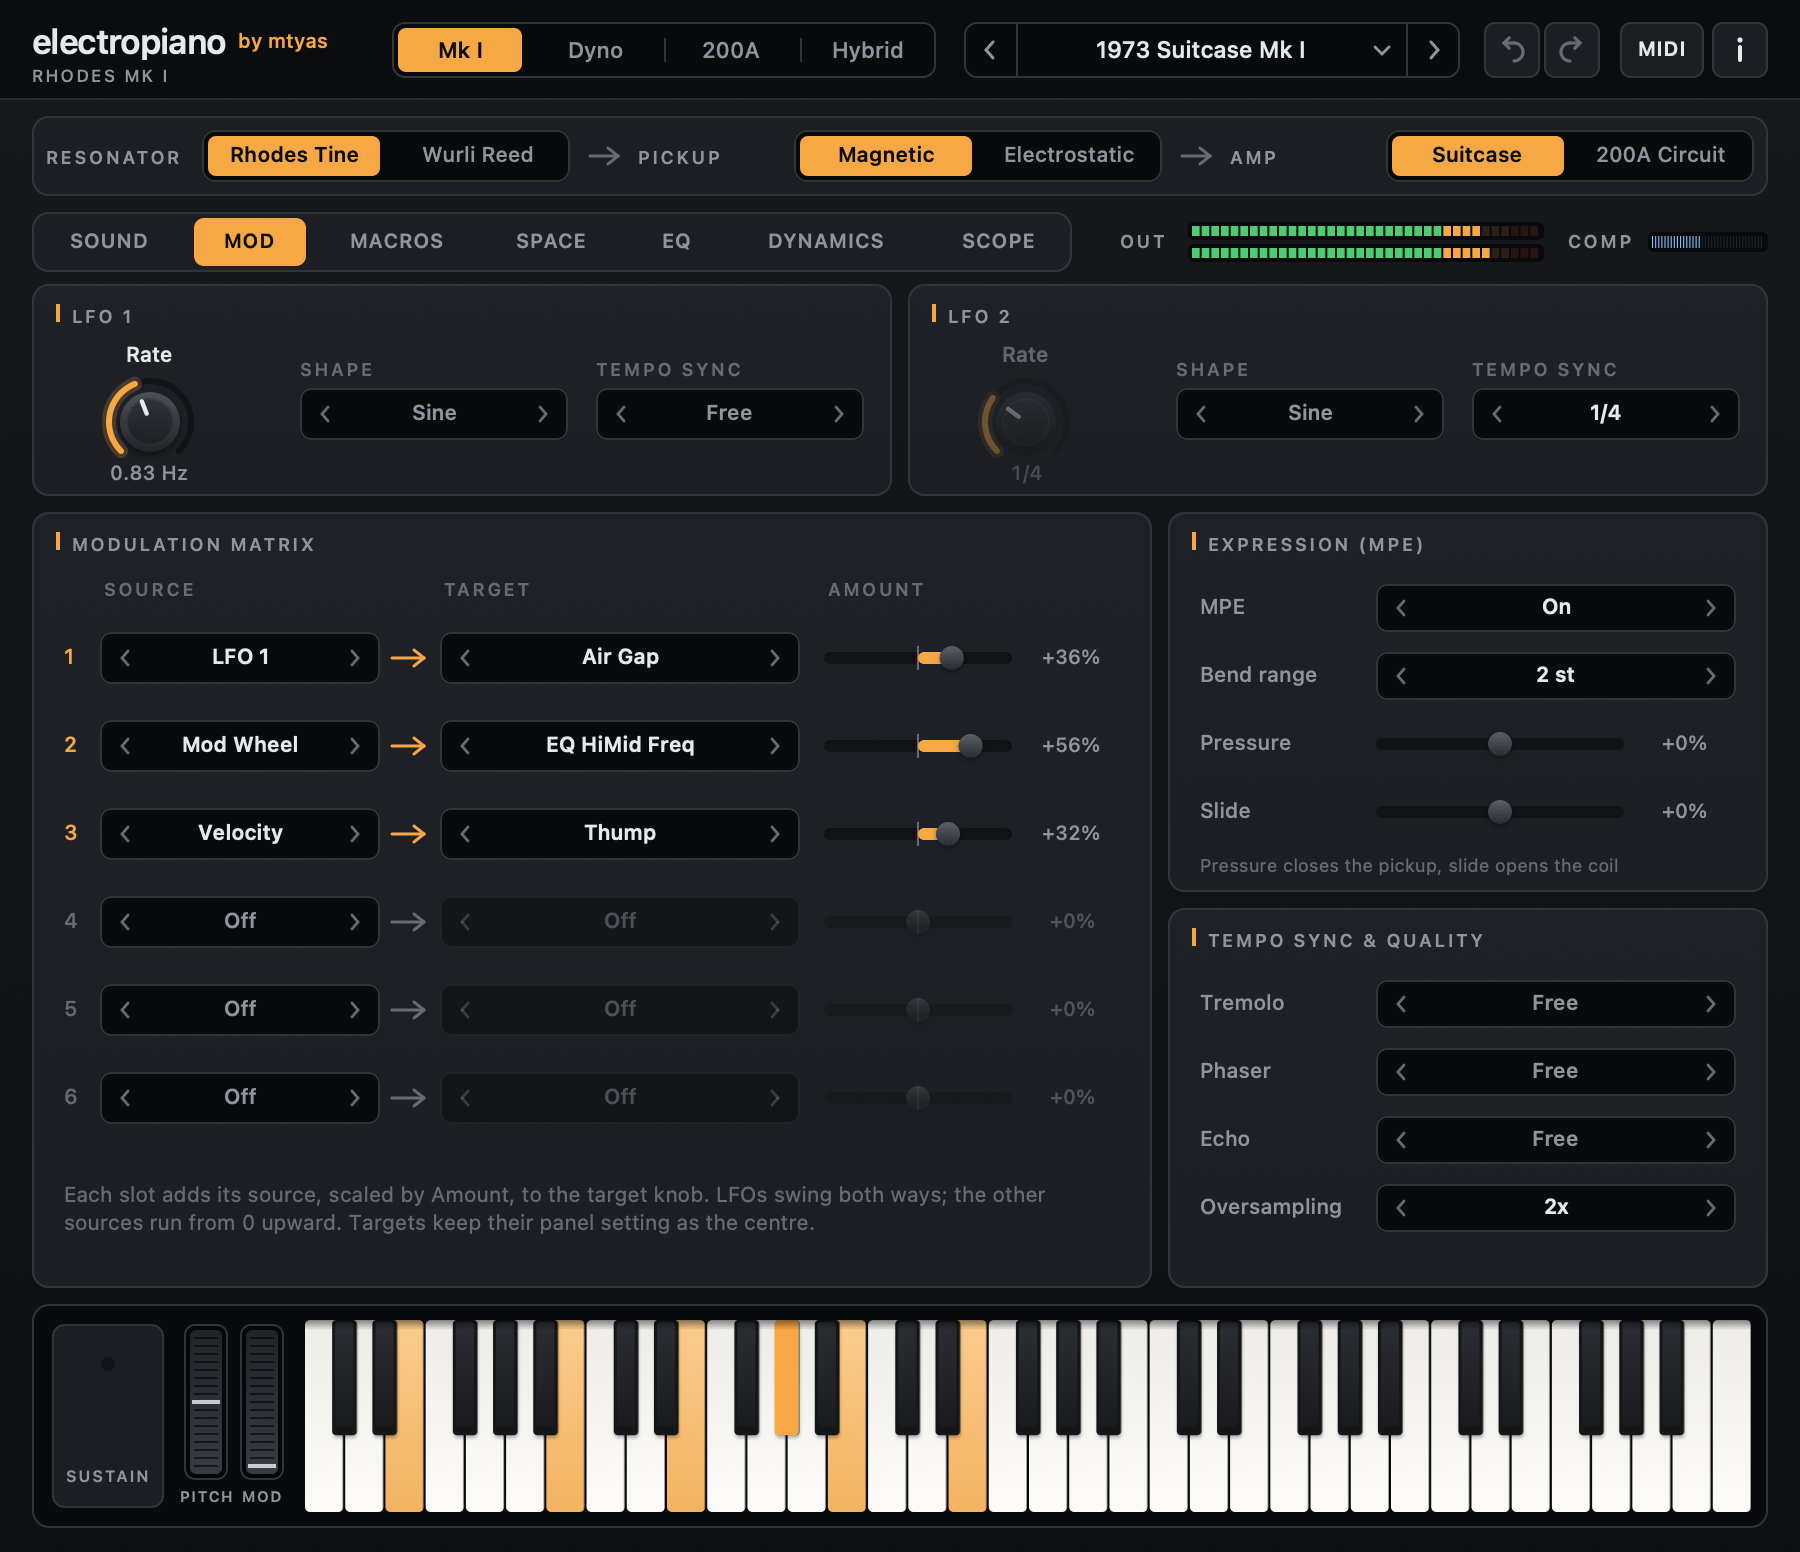
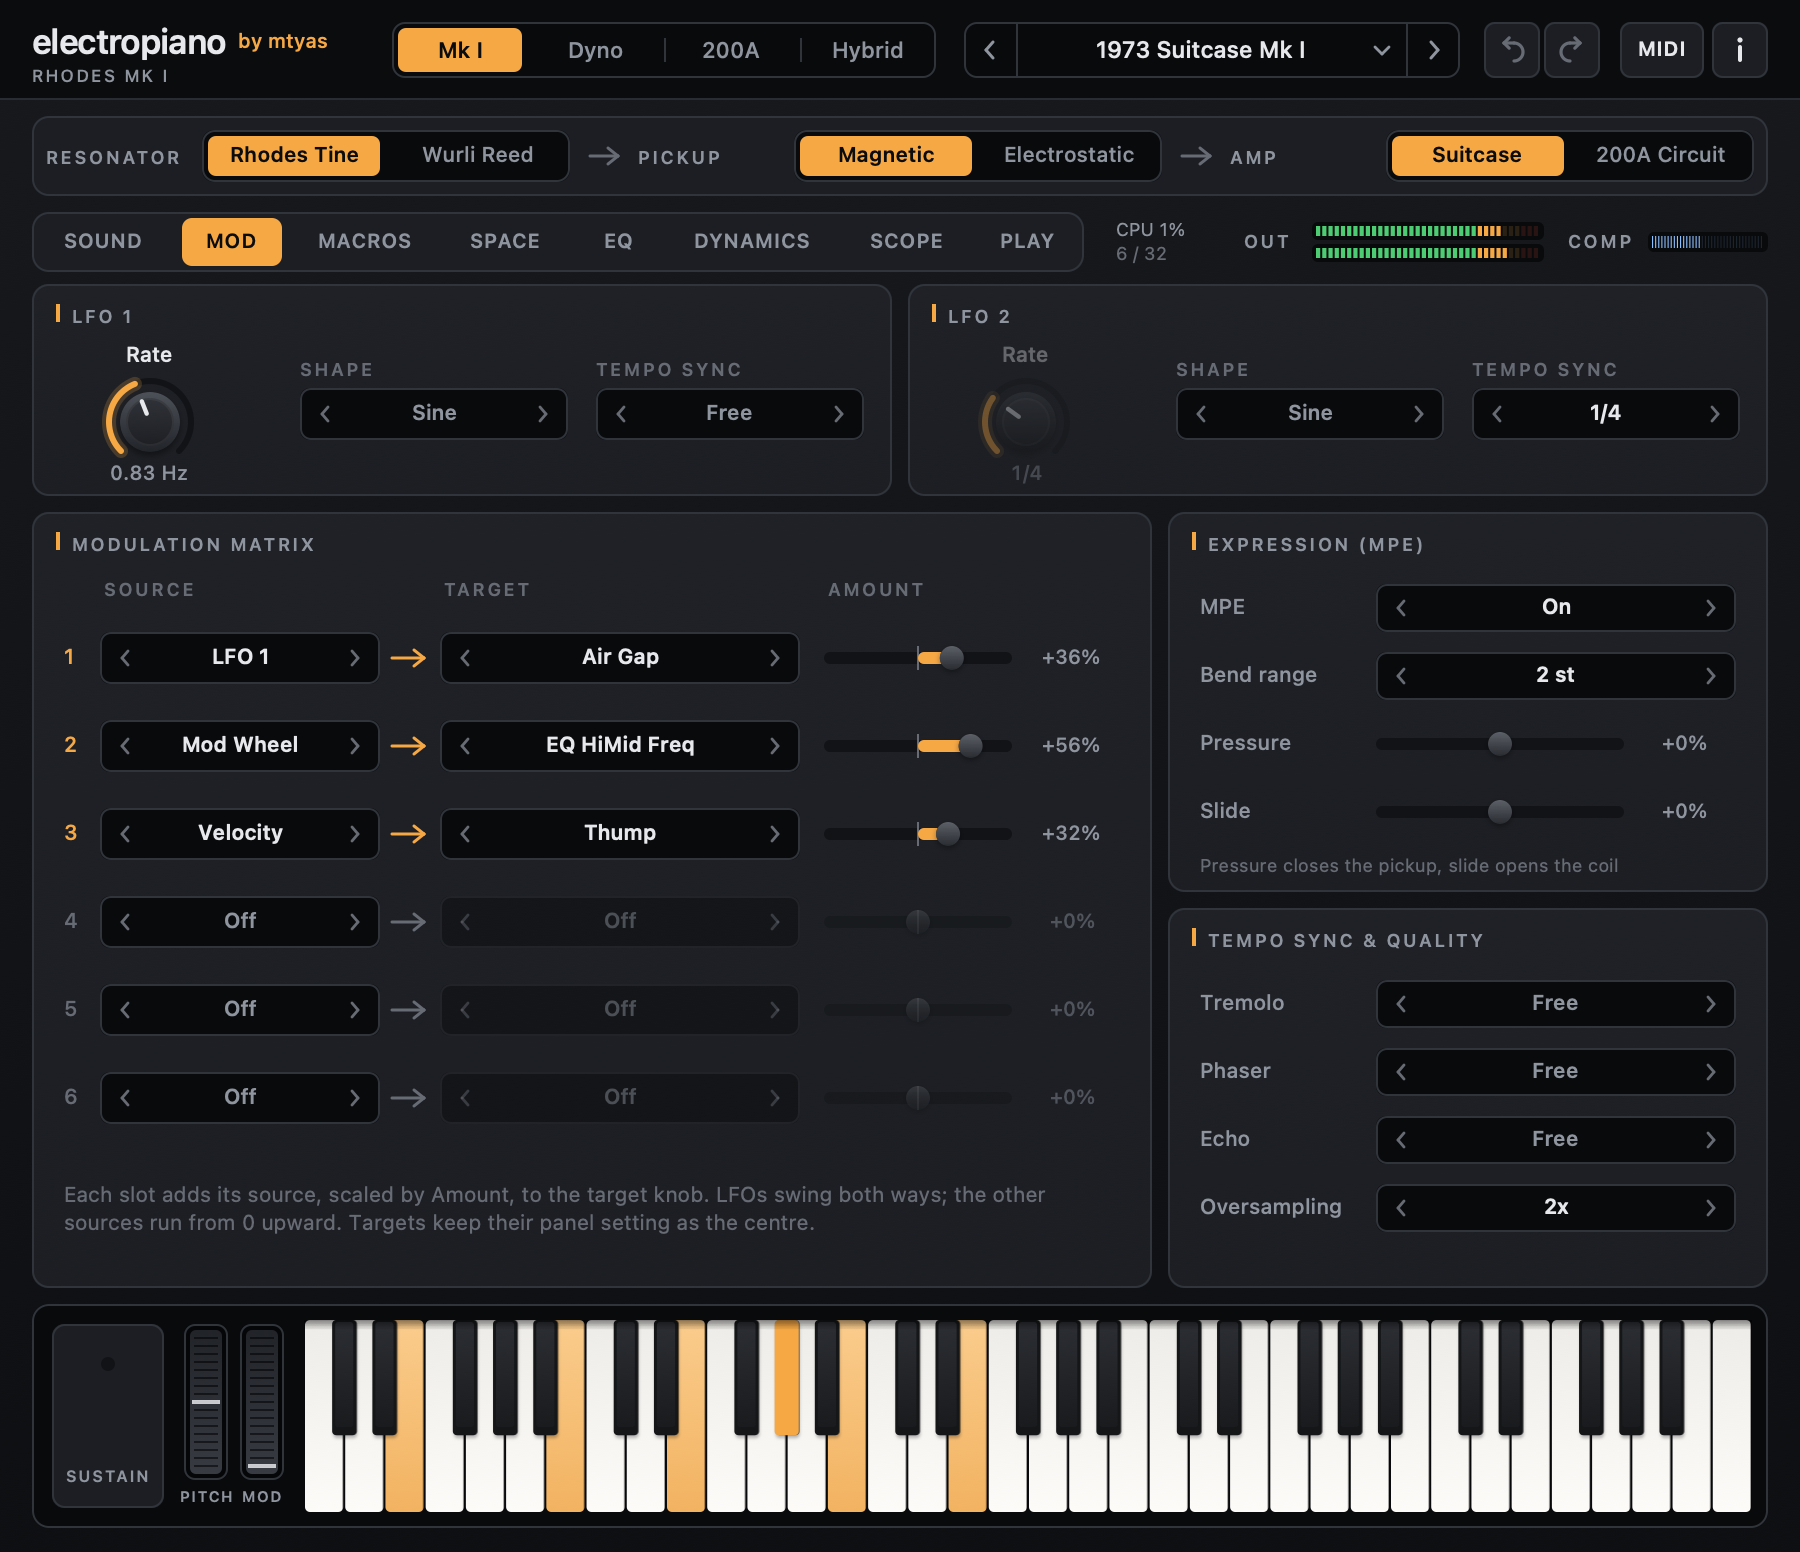
Version 0.81: one version source, release notes, refreshed screenshots
- src/dsp/PhsVersion.hpp is the single source of the version; the plugins, editor, LV2
  metadata, CMake (Info.plists, AU component version) and CI archive names read it
- Release notes for v0.81 with the downloads table (now including LV2)
- Screenshots regenerated for the eight-page editor, plus the new Play page in the manual and README

diff --git a/tools/render_manual_screenshots.mm b/tools/render_manual_screenshots.mm
@@ -119,7 +119,7 @@ int main(int argc, char** argv) {
             playChord(engine, {40, 47, 52, 56, 59, 64});
             auto settle = [&]() { for (int i = 0; i < 40; ++i) engine.processBlock(l, r, 512); };
             settle();
-            const float tabX[7] = {55, 125, 198, 276, 338, 413, 499};
+            const float tabX[8] = {52, 116, 182, 253, 309, 376, 453, 514};
             auto page = [&](int i, const char* name) {
                 ed->mouseDown(tabX[i], 655, false, 20.0 + i);
                 settle();
@@ -134,6 +134,14 @@ int main(int argc, char** argv) {
             page(4, "editor_eq.png");
             page(5, "editor_dynamics.png");
             page(6, "editor_scope.png");
+            // Play: just intonation loaded (the tuning arrow), a played-in instrument, a little spread
+            engine.setParamNormalized(kParamCondition, 0.35f);
+            engine.setParamNormalized(kParamStereoSpread, 0.4f);
+            page(7, "editor_play.png");
+            ed->mouseDown(416, 566, false, 45.0);
+            settle();
+            shoot(view, "editor_play.png");
+            engine.getTuning().resetToEqual();
             ed->mouseDown(tabX[0], 655, false, 50.0);
             shoot(view, "editor_sound.png");
             engine.setParamNormalized(kParamMpeMode, 0.0f);

diff --git a/src/formats/vst3_entry.mm b/src/formats/vst3_entry.mm
@@ -727,7 +727,7 @@ public:
         info->classFlags = 0;
         std::snprintf(info->subCategories, sizeof(info->subCategories), "Instrument|Synth|Piano");
         std::snprintf(info->vendor, sizeof(info->vendor), "mtyas");
-        std::snprintf(info->version, sizeof(info->version), "0.79");
+        std::snprintf(info->version, sizeof(info->version), "%s", PHS_VERSION_STRING);
         std::snprintf(info->sdkVersion, sizeof(info->sdkVersion), "VST 3.7.8");
         return kResultOk;
     }
@@ -742,7 +742,7 @@ public:
         info->classFlags = 0;
         std::snprintf(info->subCategories, sizeof(info->subCategories), "Instrument|Synth|Piano");
         copyAsciiToUtf16(info->vendor, "mtyas", 64);
-        copyAsciiToUtf16(info->version, "0.79", 64);
+        copyAsciiToUtf16(info->version, PHS_VERSION_STRING, 64);
         copyAsciiToUtf16(info->sdkVersion, "VST 3.7.8", 64);
         return kResultOk;
     }

diff --git a/src/gui/PhsEditor.cpp b/src/gui/PhsEditor.cpp
@@ -840,7 +840,7 @@ void Editor::drawSaveDialog(Canvas& c) {
 void Editor::drawAbout(Canvas& c) {
     aboutRect_ = modalFrame(c, 560.0f, 440.0f, "electropiano", aboutClose_);
     const Rect& m = aboutRect_;
-    c.drawText("by mtyas  \xC2\xB7  v0.79  \xC2\xB7  GPL-3.0", m.x + 28.0f + c.textWidth("electropiano", kModalTitle), m.maxY() - 31.0f, kAboutBy, kAccent);
+    c.drawText("by mtyas  \xC2\xB7  v" PHS_VERSION_STRING "  \xC2\xB7  GPL-3.0", m.x + 28.0f + c.textWidth("electropiano", kModalTitle), m.maxY() - 31.0f, kAboutBy, kAccent);
 
     const float x = m.x + 24.0f, w = m.w - 48.0f;
     float y = m.maxY() - 78.0f;

diff --git a/tools/gen_lv2_ttl.cpp b/tools/gen_lv2_ttl.cpp
@@ -39,7 +39,7 @@ int main(int argc, char** argv) {
       << "    doap:name \"electropiano\" ;\n"
       << "    doap:license <https://www.gnu.org/licenses/gpl-3.0> ;\n"
       << "    doap:maintainer [ foaf:name \"mtyas\" ; foaf:homepage <https://mtyas.com> ] ;\n"
-      << "    lv2:minorVersion 79 ; lv2:microVersion 0 ;\n"
+      << "    lv2:minorVersion " << PHS_VERSION_MINOR << " ; lv2:microVersion 0 ;\n"
       << "    lv2:requiredFeature urid:map ;\n"
       << "    lv2:optionalFeature lv2:hardRTCapable ;\n"
       << "    lv2:extensionData state:interface ;\n"

diff --git a/src/formats/au_entry.mm b/src/formats/au_entry.mm
@@ -60,7 +60,7 @@ namespace {
 static const UInt32 kAuType         = 'aumu';
 static const UInt32 kAuSubType      = 'PhsE';
 static const UInt32 kAuManufacturer = 'PyPH';
-static const UInt32 kAuVersion      = 0x00004F00; // v0.79
+static const UInt32 kAuVersion      = (PHS_VERSION_MAJOR << 16) | (PHS_VERSION_MINOR << 8);
 
 struct PropListener {
     AudioUnitPropertyID id;

diff --git a/src/dsp/PhsVersion.hpp b/src/dsp/PhsVersion.hpp
@@ -1,0 +1,7 @@
+#pragma once
+
+// The one place the version is set: the plugins, the editor, the LV2 metadata, CMake (bundle
+// Info.plists, the AU component version) and CI (archive names) all read it from here.
+#define PHS_VERSION_MAJOR 0
+#define PHS_VERSION_MINOR 81
+#define PHS_VERSION_STRING "0.81"

diff --git a/src/formats/clap_entry.mm b/src/formats/clap_entry.mm
@@ -34,7 +34,7 @@ static const clap_plugin_descriptor_t kClapDescriptor = {
     "https://mtyas.com",
     "https://mtyas.com",
     "https://ko-fi.com/mtyas",
-    "0.79",
+    PHS_VERSION_STRING,
     "electropiano by mtyas - Port-Hamiltonian Rhodes & Wurlitzer Physical Model",
     kClapFeatures
 };

diff --git a/src/dsp/PhsParameters.hpp b/src/dsp/PhsParameters.hpp
@@ -1,5 +1,6 @@
 #pragma once
 
+#include "PhsVersion.hpp"
 #include <cstdint>
 #include <cstring>
 #include <cstdio>

diff --git a/docs/RELEASE_NOTES.md b/docs/RELEASE_NOTES.md
@@ -1,4 +1,11 @@
-## electropiano — next release: playing, tuning, space and formats
+## electropiano v0.81 — playing, tuning, space and formats
+
+Physically modelled **Rhodes** and **Wurlitzer 200A** electric pianos, built from stages you can swap.
+This release is about playing it like the real thing, tuning it any way you like, and running it
+everywhere: CLAP, VST3 and now **LV2** on macOS, Windows and Linux; Audio Unit and a standalone app
+on macOS.
+
+![The new Play page](https://raw.githubusercontent.com/mtyas/electropiano/main/docs/images/editor_play.png)
 
 ### Playing
 - **Sample-accurate** notes and automation in **VST3** and **Audio Unit** (CLAP already was): timing
@@ -42,6 +49,18 @@
 
 **Projects saved with 0.79 load with the same settings and reverb**; the new controls start at
 values that leave the old sound unchanged.
+
+### Downloads
+
+| File | Contents |
+|---|---|
+| `electropiano-v0.81-macOS-Universal.zip` | CLAP, VST3, AU, LV2, standalone app (Apple Silicon + Intel) |
+| `electropiano-v0.81-Windows-x64.zip` | CLAP, VST3, LV2 |
+| `electropiano-v0.81-Linux-x64.tar.gz` | CLAP, VST3, LV2 (X11) |
+
+Installation and every control are explained in the
+[user manual](https://github.com/mtyas/electropiano/blob/main/docs/MANUAL.md). The macOS builds are
+not notarised yet: see *Installing* in the manual if macOS blocks them.
 
 ---
 

diff --git a/README.md b/README.md
@@ -87,6 +87,14 @@ amplifier**, or a **Wurlitzer reed on a Rhodes pickup**.
 <td align="center">Compressor and limiter</td>
 <td align="center">Scope: tine, hammer, pickup field, amp</td>
 </tr>
+<tr>
+<td><img src="docs/images/editor_play.png" alt="Play page"></td>
+<td><img src="docs/images/editor_space.png" alt="Space page"></td>
+</tr>
+<tr>
+<td align="center">Play: Scala microtuning, pedals and realism, A/B, zoom</td>
+<td align="center">Space: cabinets, studio hall / plate / spring reverb, echo, chorus</td>
+</tr>
 </table>
 
 ## The signal chain

diff --git a/docs/MANUAL.md b/docs/MANUAL.md
@@ -1,6 +1,6 @@
 # electropiano — User Manual
 
-**Version 0.79** · by Matthew Tyas (mtyas) · GPL-3.0
+**Version 0.81** · by Matthew Tyas (mtyas) · GPL-3.0
 
 ![electropiano with a Rhodes Mk I preset and a chord held](images/editor_sound.png)
 
@@ -427,6 +427,8 @@ Because the physics is real, you can watch it:
 ---
 
 ## 12b. Play: tuning, pedals and realism
+
+![The Play page](images/editor_play.png)
 
 ### Tuning and microtuning
 
